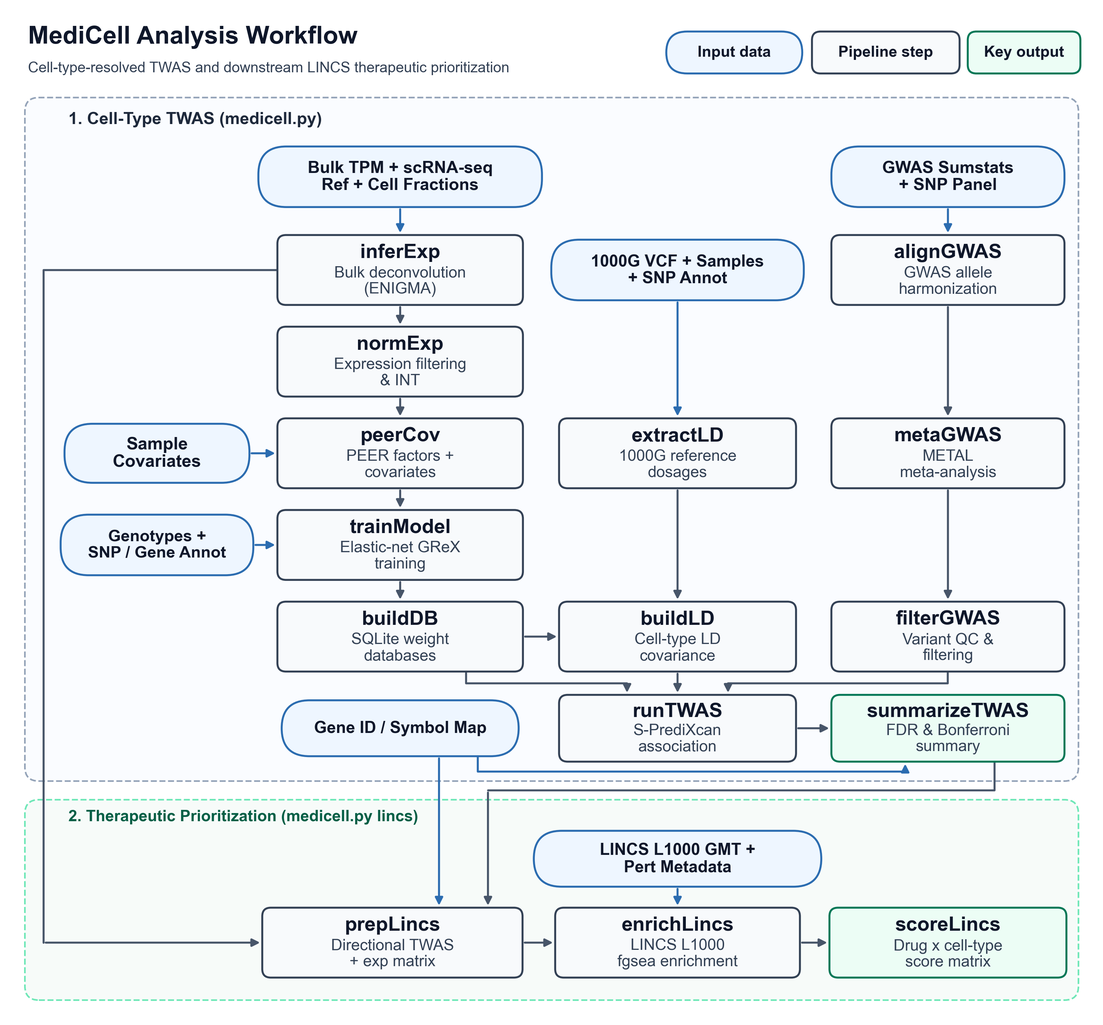
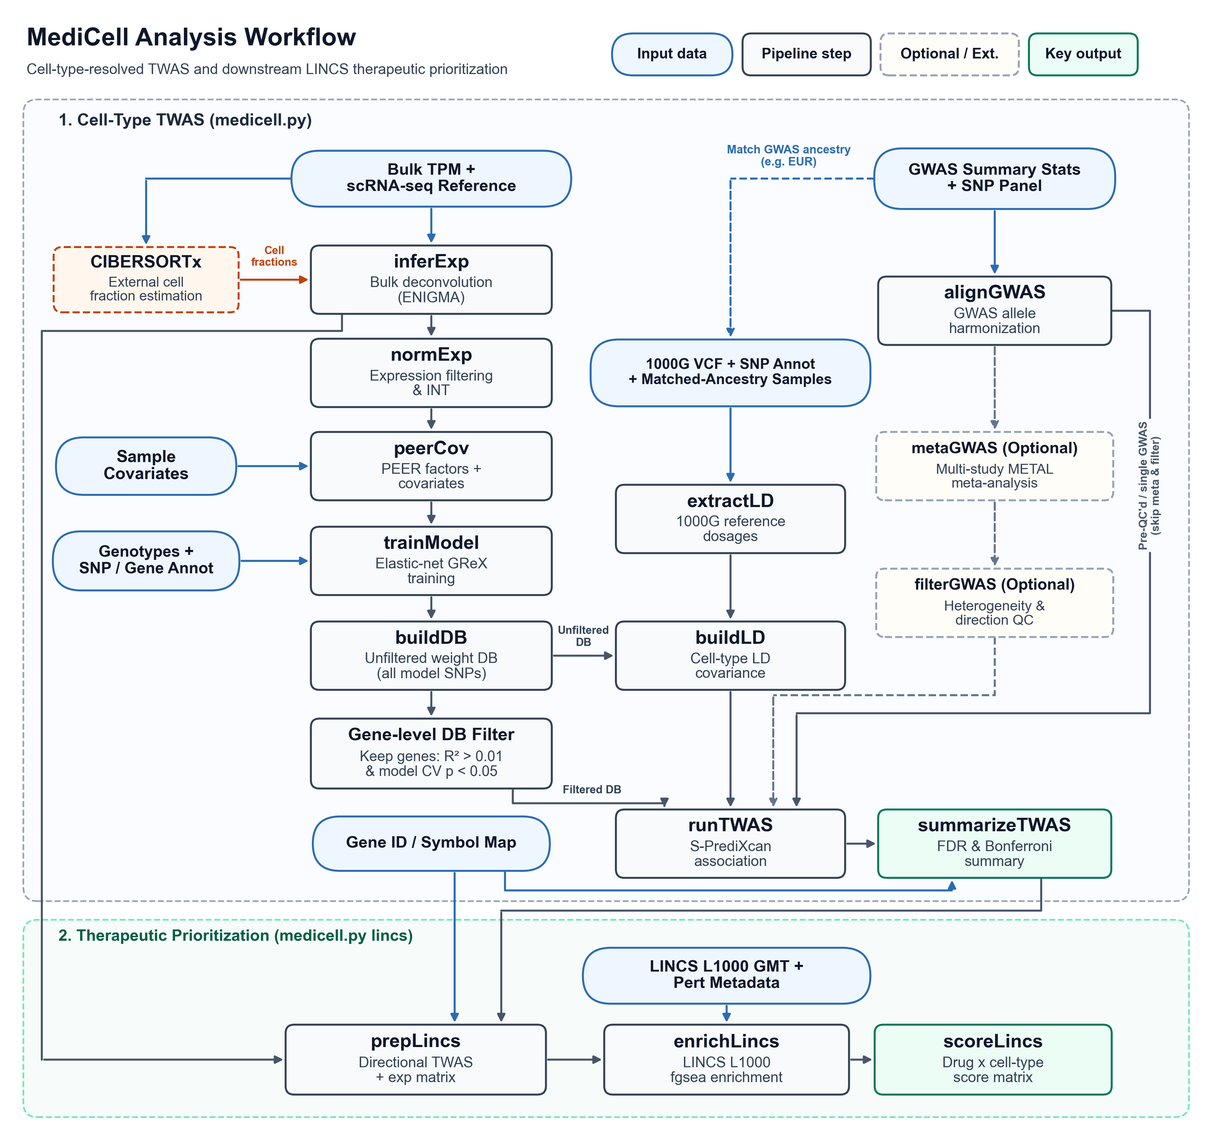
Support optional GWAS meta/filter, ancestry-matched LD, always-filtered DB, and CIBERSORTx flow

diff --git a/medicell.py b/medicell.py
@@ -186,7 +186,7 @@ def parse_args(argv=None):
     data.add_argument("--enigma-ref", default="",
                       help="single-cell reference matrix (TPM, aggregated by cell type)")
     data.add_argument("--cibersortx-frax", default="",
-                      help="CIBERSORTx adjusted cell-fraction output")
+                      help="CIBERSORTx cell-fraction output estimated externally and passed to ENIGMA")
     data.add_argument("--covariates", default="",
                       help="covariates txt (required by peerCov auto-detects "
                            "samples-x-covariates and legacy covariates-x-samples layouts; "
@@ -206,15 +206,14 @@ def parse_args(argv=None):
                       help="1000 Genomes Phase 3 VCF pattern with {chr} placeholder "
                            "(not needed when --ld-dosage-dir is given)")
     data.add_argument("--g1000-samples", default="",
-                      help="1000G sample list file for the LD panel")
+                      help="1000G sample list matching the GWAS ancestry (e.g., 1000G EUR samples for EUR GWAS)")
     data.add_argument("--gene-pos", default="",
                       help="gene position annotation CSV (GRCh37, gene_id/gene_name columns)")
     data.add_argument("--ld-dosage-dir", default="",
                       help="pre-extracted 1000G dosage directory "
                            "(skips the extractLD extraction block)")
     data.add_argument("--gwas-summary", default="",
-                      help="explicit filtered GWAS summary for runTWAS "
-                           "(overrides the pipeline-generated path)")
+                      help="pre-QC'd GWAS summary for runTWAS (MarkerName, Allele1, Allele2, Effect, StdErr, P-value; skips alignGWAS/metaGWAS/filterGWAS with --all)")
 
     gen = p.add_argument_group("input contracts and generalization")
     gen.add_argument("--sample-id-policy", choices=["exact", "legacy-rnames"], default=None,
@@ -233,10 +232,12 @@ def parse_args(argv=None):
                      help="minor allele frequency threshold for trainModel genotype variants in [0, 0.5] (default 0.01)")
     gen.add_argument("--maf-policy", choices=["filter", "verify"], default="filter",
                      help="filter: drop variants with MAF < --maf; verify: fail if input genotype violates --maf (default filter)")
-    gen.add_argument("--ld-panel-id", default="EUR_EAS",
-                     help="LD panel id used in dosage/covariance file names (default EUR_EAS)")
-    gen.add_argument("--twas-model-set", choices=["unfiltered", "filtered-signif"], default=None,
-                     help="weight database choice; required explicitly for buildDB and runTWAS")
+    gen.add_argument("--gwas-population", default=None,
+                     help="GWAS ancestry label (e.g. EUR, EAS, EUR_EAS); defaults --ld-panel-id when omitted")
+    gen.add_argument("--ld-panel-id", default=None,
+                     help="LD panel id matched to GWAS ancestry (defaults to --gwas-population, else EUR_EAS)")
+    gen.add_argument("--twas-model-set", choices=["unfiltered", "filtered-signif"], default="filtered-signif",
+                     help="weight database for runTWAS (default filtered-signif: R2 > 0.01 and CV p < 0.05; buildDB always keeps *_models_unfiltered.db for buildLD)")
     gen.add_argument("--cores", type=int, default=None,
                      help="unified parallel cores/workers across all pipeline steps (default 4)")
     gen.add_argument("--seed", type=int, default=None,
@@ -245,7 +246,7 @@ def parse_args(argv=None):
     gen.add_argument("--training-cores", type=int, default=None,
                      help="inner trainModel cores per (cell_type, chr) job (defaults from --cores; forced to 1 with --seed)")
 
-    gwas = p.add_argument_group("GWAS mode (required for alignGWAS/metaGWAS/filterGWAS)")
+    gwas = p.add_argument_group("GWAS mode (required when running alignGWAS/metaGWAS/filterGWAS)")
     gwas_mode = gwas.add_mutually_exclusive_group()
     gwas_mode.add_argument("--gwas-profile", choices=list(LEGACY_GWAS_PROFILES), default=None,
                            help="historical SLE reproduction profile; reproduces the "
@@ -257,6 +258,8 @@ def parse_args(argv=None):
     gwas.add_argument("--gwas-filter-policy", choices=["none", "legacy"], default=None,
                       help="post-meta filtering (default: legacy for --gwas-profile, "
                            "none for --gwas-manifest)")
+    gwas.add_argument("--skip-gwas-meta", action="store_true",
+                      help="skip optional metaGWAS and filterGWAS when running alignGWAS on a single pre-QC'd GWAS study in --gwas-manifest")
 
     env = p.add_argument_group("environment and tools")
     env.add_argument("--env-base", default="",
@@ -288,7 +291,12 @@ def parse_args(argv=None):
     if flagged_steps:
         args.steps = flagged_steps
     elif args.steps is None:
-        args.steps = ALL_STEPS.copy()
+        if args.gwas_summary:
+            args.steps = [step for step in ALL_STEPS if step not in GWAS_STEPS]
+        elif args.skip_gwas_meta:
+            args.steps = [step for step in ALL_STEPS if step not in ("metaGWAS", "filterGWAS")]
+        else:
+            args.steps = ALL_STEPS.copy()
     else:
         selected = []
         for value in args.steps:
@@ -347,6 +355,7 @@ def parse_args(argv=None):
             chrs.append(int(token))
     args.chromosomes = chrs
     for name, value in (("--gwas-id", args.gwas_id),
+                        ("--gwas-population", args.gwas_population),
                         ("--ld-panel-id", args.ld_panel_id)):
         if value is not None and not re.fullmatch(SAFE_NAME, value):
             p.error(name + " must be a safe output label ([A-Za-z0-9_.-])")
@@ -391,10 +400,28 @@ def parse_args(argv=None):
     if missing:
         p.error("selected steps require: " + ", ".join(missing))
 
-    # -- GWAS mode: explicit profile / manifest, or a recorded prior mode --
-    if args.gwas_summary and set(args.steps) & GWAS_STEPS:
-        p.error("--gwas-summary is for running runTWAS on an external summary; it "
-                "cannot be combined with the GWAS steps")
+    # -- GWAS mode: external summary, single-study aligned, multi-study meta, or recorded prior mode --
+    if args.gwas_summary:
+        if args.gwas_profile or args.gwas_manifest:
+            p.error("--gwas-summary cannot be combined with --gwas-profile or --gwas-manifest")
+        if args.skip_gwas_meta:
+            p.error("--skip-gwas-meta cannot be combined with --gwas-summary")
+        if set(args.steps) & GWAS_STEPS:
+            p.error("--gwas-summary cannot be combined with alignGWAS, metaGWAS, or filterGWAS")
+        if not os.path.isfile(args.gwas_summary) or os.path.getsize(args.gwas_summary) == 0:
+            p.error("--gwas-summary file not found or empty: " + args.gwas_summary)
+        import gzip as _gzip
+        opener = _gzip.open if args.gwas_summary.endswith(".gz") else open
+        with opener(args.gwas_summary, "rt") as _gf:
+            _hdr = _gf.readline().rstrip("\r\n").split()
+        _req_cols = {"MarkerName", "Allele1", "Allele2", "Effect", "StdErr", "P-value"}
+        if not (_req_cols <= set(_hdr)):
+            p.error("--gwas-summary header must contain columns: " + ", ".join(sorted(_req_cols)))
+    if args.skip_gwas_meta:
+        if args.gwas_profile:
+            p.error("--skip-gwas-meta applies only to single-study --gwas-manifest (not --gwas-profile)")
+        if set(args.steps) & {"metaGWAS", "filterGWAS"}:
+            p.error("--skip-gwas-meta cannot be combined with metaGWAS or filterGWAS")
     gwas_dir = os.path.join(os.path.abspath(args.output_dir), "M04_gwas")
     run_meta = os.path.join(gwas_dir, "gwas_run.json")
     profile, manifest = args.gwas_profile, args.gwas_manifest
@@ -435,6 +462,14 @@ def parse_args(argv=None):
                         p.error("Explicit GWAS manifest no longer exists")
                 saved_build = saved.get("genome_build", "GRCh37")
                 saved_policy = saved.get("filter_policy")
+                saved_pop = saved.get("gwas_population") or ""
+                if args.gwas_population is not None and saved_pop and args.gwas_population != saved_pop:
+                    p.error("--gwas-population conflicts with recorded GWAS inputs; use a new output directory")
+                if args.gwas_population is None and saved_pop:
+                    args.gwas_population = saved_pop
+                saved_skip = bool(saved.get("skip_meta", False))
+                if args.skip_gwas_meta and not saved_skip:
+                    p.error("--skip-gwas-meta conflicts with recorded meta-analysis mode; use a new output directory")
                 if (saved_build not in ("GRCh37", "GRCh38")
                         or saved_policy not in ("none", "legacy")
                         or (profile and saved_policy != "legacy")):
@@ -471,10 +506,21 @@ def parse_args(argv=None):
         args.gwas_prefix = LEGACY_GWAS_PREFIX
         filter_policy = "legacy"
     elif manifest:
-        args.gwas_prefix = args.gwas_id + "_meta"
+        is_single = args.skip_gwas_meta or (
+            saved is not None and bool(saved.get("skip_meta", False))
+        ) or ("alignGWAS" in args.steps and "metaGWAS" not in args.steps and "filterGWAS" not in args.steps)
+        if is_single and (not args.gwas_mode_recovered or os.path.isfile(manifest)):
+            import csv as _csv
+            with open(manifest, "r", newline="") as _mf:
+                _rows = list(_csv.DictReader(_mf, delimiter="\t"))
+            if len(_rows) != 1:
+                p.error("skipping metaGWAS/filterGWAS requires a single-study --gwas-manifest (found %d studies)" % len(_rows))
+        args.gwas_prefix = args.gwas_id + ("_single" if is_single else "_meta")
+        args.skip_meta_active = is_single
         filter_policy = "none"
     else:
         args.gwas_prefix = ""
+        args.skip_meta_active = False
         filter_policy = ""
     if args.gwas_filter_policy is not None:
         if profile and args.gwas_filter_policy != "legacy":
@@ -488,6 +534,7 @@ def parse_args(argv=None):
     args.gwas_filt = (os.path.abspath(args.gwas_summary) if args.gwas_summary
                       else (os.path.join(gwas_dir, args.gwas_prefix + "_filt.tsv")
                             if args.gwas_prefix else ""))
+    args.ld_panel_id = args.ld_panel_id or args.gwas_population or "EUR_EAS"
     args.gwas_profile_active = profile
     args.gwas_manifest_active = manifest
     return args
@@ -954,6 +1001,8 @@ def main():
             "metal_tbl": args.metal_tbl,
             "filtered": args.gwas_filt,
             "filter_policy": args.gwas_filter_policy,
+            "gwas_population": args.gwas_population or "",
+            "skip_meta": bool(getattr(args, "skip_meta_active", False)),
         })
 
     enigma_rdata = os.path.join(dirs["m01"],
@@ -990,6 +1039,8 @@ def main():
         "MC_GWAS_FILTER_POLICY": args.gwas_filter_policy,
         "MC_METAL_TBL": args.metal_tbl,
         "MC_GWAS_FILT": args.gwas_filt,
+        "MC_GWAS_SINGLE_OUT": (args.gwas_filt if getattr(args, "skip_meta_active", False) else ""),
+        "MC_GWAS_POPULATION": args.gwas_population or "",
         "MC_G1000_VCF_PATTERN": input_path(args.g1000_vcf_pattern),
         "MC_G1000_SAMPLES": input_path(args.g1000_samples),
         "MC_GENE_POS": input_path(args.gene_pos),

diff --git a/test/check_results.py b/test/check_results.py
@@ -46,6 +46,9 @@ for ct in cell_types:
         assert c.execute("SELECT n_samples,population FROM sample_info").fetchall() == [(n_samples, "EUR")]
         assert c.execute("SELECT count(*) FROM extra").fetchone()[0] >= 1
         assert c.execute("SELECT count(*) FROM weights").fetchone()[0] >= 1
+    with sqlite3.connect(str(out / f"M06_databases/{ct}_models_filtered_signif.db")) as cf:
+        assert cf.execute("SELECT n_samples,population FROM sample_info").fetchall() == [(n_samples, "EUR")]
+        assert cf.execute("SELECT count(*) FROM extra WHERE \"pred.perf.R2\" <= 0.01 OR \"pred.perf.pval\" >= 0.05").fetchone()[0] == 0
     with gzip.open(str(out / f"M05_ld/cov_MINI_EUR_EAS/{ct}.txt.gz"), "rt") as f:
         header = f.readline().split()
         covariance = [dict(zip(header, line.split())) for line in f]

diff --git a/README.md b/README.md
@@ -57,7 +57,7 @@ python3 medicell.py --output-dir run_out --all \
     --cores 4 \
     --cell-types B,CD4T,CD8T,NK,Mono,DC \
     --peer-nk 2 --peer-keep 2 \
-    --training-population EUR --twas-model-set unfiltered \
+    --training-population EUR --gwas-population EUR_EAS \
     --bulk-tpm           data/bulk_TPM.txt \
     --enigma-ref         data/sc_reference_TPM.matrx \
     --cibersortx-frax    data/CIBERSORTx_fractions.txt \
@@ -113,8 +113,8 @@ remain valid aliases in `--steps`):
 | `trainModel` | `M03` | `M03_ModelTraining.R` | `--snp-annot-pattern`, `--genotype-pattern`, `--gene-annot` |
 | `buildDB` | `M04db`, `M06` | `M04_Makedb.R` | (uses `trainModel` output) |
 | `alignGWAS` | `M05align`, `M04align` | `M05_DataProcess_GWAS_align4METAL.R` | `--snp-annot-file`, `--gwas-dir` + GWAS mode |
-| `metaGWAS` | `M05metal`, `M04metal` | `M05_DataProcess_GWAS_metal.sh` | (uses `alignGWAS` output) |
-| `filterGWAS` | `M05filter`, `M04filter` | `M05_DataProcess_GWAS_metal_filter.R` | (uses `metaGWAS` output) |
+| `metaGWAS` *(optional)* | `M05metal`, `M04metal` | `M05_DataProcess_GWAS_metal.sh` | (multi-study meta; skipped with `--skip-gwas-meta` or `--gwas-summary`) |
+| `filterGWAS` *(optional)* | `M05filter`, `M04filter` | `M05_DataProcess_GWAS_metal_filter.R` | (post-meta QC; skipped with `--skip-gwas-meta` or `--gwas-summary`) |
 | `extractLD` | `M06ld`, `M05ld` | `M06_LD.sh` | `--snp-annot-pattern`; also `--g1000-vcf-pattern`, `--g1000-samples` unless `--ld-dosage-dir` |
 | `buildLD` | `M06cov`, `M05cov` | `M06_Makeld.sh` | (uses `buildDB` + `extractLD` output) |
 | `runTWAS` | `M07` | `M07_TWAS.sh` | (uses `buildDB` + `buildLD` + `filterGWAS` / `--gwas-summary`) |
@@ -151,18 +151,27 @@ Existing tool and environment options still apply.
   prints a warning when the legacy profile is active; standard runs get the
   `<gwas_id>_meta` output prefix and filter policy `none` by default.
 
+`metaGWAS` and `filterGWAS` are **optional** and only needed for multi-study
+meta-analysis (such as the multi-cohort SLE example). A pre-QC'd single-study
+GWAS can run either:
+
+- directly with `--all --gwas-summary FILE --gwas-id TRAIT` (automatically skips
+  `alignGWAS`, `metaGWAS`, and `filterGWAS`; `FILE` must include columns
+  `MarkerName`, `Allele1`, `Allele2`, `Effect`, `StdErr`, `P-value`), or
+- with `--all --gwas-manifest SINGLE_STUDY.tsv --skip-gwas-meta --gwas-id TRAIT`
+  (runs `alignGWAS` to harmonize alleles against `--snp-annot-file` and skips
+  `metaGWAS` / `filterGWAS`).
+
 The active mode is recorded in `M04_gwas/gwas_run.json`, so re-running
-`metaGWAS`/`filterGWAS`/`runTWAS` in the same output directory recovers it. `runTWAS` can also
-run on any external summary with `--gwas-summary FILE` (cannot be combined
-with the GWAS steps). `--gwas-id` is a label used in standard-mode output
-names and reports only.
+`metaGWAS`/`filterGWAS`/`runTWAS` in the same output directory recovers it.
+`--gwas-id` is a label used in standard-mode output names and reports only.
 
 ### Explicit analysis configuration
 
 - `--cell-types` is always required and must match the reference cell-type names.
 - `--peer-nk` and `--peer-keep` are required only for `peerCov` (`M02cov`). Use `0`/`0`
   for known covariates only; no PEER factors are inferred in this mode.
-- `--twas-model-set unfiltered|filtered-signif` is required for `buildDB` (`M04db`) and `runTWAS` (`M07`).
+- `--twas-model-set filtered-signif|unfiltered` (default `filtered-signif`) selects the database for `runTWAS` (`M07`). `buildDB` always retains `{ct}_models_unfiltered.db` for `buildLD` SNP lookup and generates `{ct}_models_filtered_signif.db` by filtering whole genes (`R^2 > 0.01` and CV `p < 0.05`, dropping unqualified genes entirely).
 - `--training-population` is optional metadata for `buildDB` (default `unspecified`).
 
 Sample IDs default to exact matching and gene annotations default to the
@@ -196,7 +205,7 @@ according to the selected steps above; tuning options retain their defaults:
 | `--output-dir` | run directory; all results are written here |
 | `--bulk-tpm` | bulk TPM expression matrix (genes x samples) |
 | `--enigma-ref` | single-cell reference matrix (TPM, aggregated by cell type) |
-| `--cibersortx-frax` | CIBERSORTx adjusted cell-fraction output |
+| `--cibersortx-frax` | externally estimated CIBERSORTx cell-type fractions passed into `inferExp` (ENIGMA) instead of internal fraction estimation |
 | `--covariates` | covariates txt, first column = sample ID, then covariate columns (required for `peerCov`; format below) |
 | `--cat-covs` | comma-separated categorical covariate columns to dummy-encode (default none) |
 | `--min-level-count` | drop categorical levels with fewer samples (default 5) |
@@ -208,7 +217,7 @@ according to the selected steps above; tuning options retain their defaults:
 | `--snp-annot-file` | single-file genotype panel SNP annotation (for GWAS align) |
 | `--gwas-dir` | directory with the three SLE GWAS files: `GCST011096_buildGRCh37.tsv`, `GCST90018917_buildGRCh37.tsv.gz`, `GCST90476183_hg19.tsv.gz` (legacy profiles) |
 | `--g1000-vcf-pattern` | 1000 Genomes Phase 3 VCF pattern, with `{chr}` placeholder |
-| `--g1000-samples` | 1000G sample list for the LD panel (EUR+EAS by default; pass an EUR-only list for a European LD panel) |
+| `--g1000-samples` | 1000G sample list **matching the GWAS ancestry** (e.g., use 1000G EUR samples for a EUR GWAS, or matched EUR+EAS samples for trans-ancestry EUR+EAS meta-GWAS) |
 | `--gene-pos` | gene position annotation CSV (GRCh37, with gene_id/gene_name columns) |
 
 Input contracts:
@@ -220,8 +229,9 @@ Input contracts:
 | `--gene-annot-format` | `standard` (default) or explicitly selected `legacy-name-is-id` |
 | `--genome-build` | `GRCh37` (default) or `GRCh38`; declared for this cohort's coordinates, no liftover is performed |
 | `--training-population` | optional population label stored with the trained models (default `unspecified`) |
-| `--ld-panel-id` | LD panel id used in dosage/covariance file names (default `EUR_EAS`) |
-| `--twas-model-set` | `unfiltered` or `filtered-signif`; required for `buildDB`/`runTWAS` |
+| `--gwas-population` | GWAS ancestry label (e.g. `EUR`, `EAS`, `EUR_EAS`); sets default `--ld-panel-id` when omitted |
+| `--ld-panel-id` | LD panel id matched to GWAS ancestry (defaults to `--gwas-population` if set, else `EUR_EAS`) |
+| `--twas-model-set` | `filtered-signif` (default; gene-level filter `R^2 > 0.01` & CV `p < 0.05`) or `unfiltered` for `runTWAS`; `buildDB` always retains `unfiltered` DB for `buildLD` |
 | `--maf` | MAF threshold for `trainModel` genotypes in `[0, 0.5]` (default `0.01`; manuscript used `0.05`) |
 | `--maf-policy` | `filter` (drop variants `< --maf`) or `verify` (fail if input genotype violates `--maf`) |
 
@@ -272,7 +282,8 @@ Run control:
 | `--training-cores` | inner `trainModel` cores per `(cell_type, chr)` job (defaults from `--cores`) |
 | `--ld-dosage-dir` | reuse pre-extracted 1000G dosages, skip `extractLD` (`M06ld`) extraction |
 | `--gwas-id` | trait label (required for `--gwas-manifest` and standalone `summarizeTWAS` without `gwas_run.json`; auto-recovered from `gwas_run.json` when present) |
-| `--gwas-summary` | explicit filtered GWAS summary for `runTWAS` (`M07`) |
+| `--gwas-summary` | pre-QC'd GWAS summary for `runTWAS` (`M07`); automatically skips `alignGWAS`/`metaGWAS`/`filterGWAS` when used with `--all` |
+| `--skip-gwas-meta` | skip optional `metaGWAS`/`filterGWAS` for a single pre-QC'd study in `--gwas-manifest` |
 
 Environment/tools (defaults match `envs/*.yml` and bundled `tools/`):
 
@@ -291,15 +302,15 @@ Executed in dependency order (canonical names; legacy aliases in parentheses):
 
 | Step | What it does |
 |---|---|
-| `inferExp` (`M01`) | ENIGMA trace-norm deconvolution with CIBERSORTx fractions |
+| `inferExp` (`M01`) | ENIGMA trace-norm deconvolution using externally estimated CIBERSORTx cell fractions |
 | `normExp` (`M02exp`) | filter low-expression genes (TPM > `--tpm-min` in `max(--min-pct x N, --min-samples)` samples), per-gene inverse-normal transform per cell type |
 | `peerCov` (`M02cov`) | PEER factors + covariates for model training (parallelized across cell types) |
 | `trainModel` (`M03`) | nested-CV elastic-net GReX models (parallelized across cell types x chromosomes and genes) |
-| `buildDB` (`M04db`, `M06`) | SQLite weight databases for S-PrediXcan (parallelized across cell types) |
-| `alignGWAS` (`M05align`, `M04align`) | align GWAS studies to the genotype panel (allele flips, effect direction) |
-| `metaGWAS` (`M05metal`, `M04metal`) | METAL inverse-variance meta-analysis |
-| `filterGWAS` (`M05filter`, `M04filter`) | post-meta filtering (policy-dependent) |
-| `extractLD` (`M06ld`, `M05ld`) | 1000G dosages aligned to the panel annotation (parallelized across chromosomes) |
+| `buildDB` (`M04db`, `M06`) | build `{ct}_models_unfiltered.db` (kept for `buildLD` SNP lookup) and gene-filtered `{ct}_models_filtered_signif.db` (`R^2 > 0.01`, CV `p < 0.05`; whole failed genes removed) |
+| `alignGWAS` (`M05align`, `M04align`) | align GWAS study/studies to the genotype panel (and write direct TWAS input when meta is skipped) |
+| `metaGWAS` (`M05metal`, `M04metal`) | *(optional)* METAL inverse-variance meta-analysis for multi-study GWAS |
+| `filterGWAS` (`M05filter`, `M04filter`) | *(optional)* post-meta heterogeneity/direction filtering (policy-dependent) |
+| `extractLD` (`M06ld`, `M05ld`) | 1000G dosages for GWAS-ancestry-matched samples aligned to the panel annotation (parallelized across chromosomes) |
 | `buildLD` (`M06cov`, `M05cov`) | LD covariance matrices per cell type (parallelized across cell types) |
 | `runTWAS` (`M07`) | S-PrediXcan association per cell type (parallelized across cell types) |
 | `summarizeTWAS` (`M08`) | per-cell-type FDR / Bonferroni result summary |
@@ -328,7 +339,7 @@ remain `zscore_pval < 0.05` and `rho_avg_squared > 0.01`. No intermediate
                         Model_training_{ct}_chr{n}_summary.txt
   M03_models/weights/   Model_training_{ct}_chr{n}_weights.txt
   M06_databases/        {ct}_models_unfiltered.db               all models; required for LD covariance and unfiltered TWAS
-                        {ct}_models_filtered_signif.db          only when --twas-model-set filtered-signif is selected
+                        {ct}_models_filtered_signif.db          gene-filtered models (R^2 > 0.01, CV p < 0.05; default for runTWAS)
   M04_gwas/             gwas_run.json                           recorded GWAS mode (profile or manifest)
                         SLE_metal_096_917_1831.tbl              legacy METAL meta-analysis result
                         SLE_metal_096_917_183_filt.tsv          legacy filtered meta statistics

diff --git a/script/README.md b/script/README.md
@@ -25,10 +25,10 @@ positional `<step>`).
 | `normExp` | `M02exp` | `M02_DataProcess_exp_fordb.R` | `r3.6.3` | `mclapply` across cell types | Filter genes (`TPM > MC_TPM_MIN` in `>= max(ceil(MC_MIN_PCT * N), MC_MIN_SAMPLES)` samples) and apply per-gene rank-based inverse normal transformation (INT). |
 | `peerCov` | `M02cov` | `M02_DataProcess_covariance_for_db.R` | `r3.6.3` | `mclapply` across cell types | Auto-detect covariate layout, dummy-encode `MC_CAT_COVS`, estimate `MC_PEER_NK` PEER hidden factors per cell type, and retain `MC_PEER_KEEP` factors for training. |
 | `trainModel` | `M03` | `M03_ModelTraining.R` | `R4.4.3` | Outer `(ct x chr)` pool + inner `doParallel` | Train nested-CV elastic-net GReX models (`alpha = 0.5`, `+/- 1 Mb` cis window) for one `(cell_type, chr)` pair via `helpers/gtex_v7_nested_cv_elnet.R`. |
-| `buildDB` | `M04db`, `M06` | `M04_Makedb.R` | `R4.4.3` | `mclapply` across cell types | Validate 24-column model summaries and canonical `VarID` weights, then assemble PrediXcan SQLite databases (`unfiltered` and optional `filtered-signif`). |
+| `buildDB` | `M04db`, `M06` | `M04_Makedb.R` | `R4.4.3` | `mclapply` across cell types | Validate 24-column model summaries and canonical `VarID` weights, then assemble `{ct}_models_unfiltered.db` (retained for `buildLD`) and gene-filtered `{ct}_models_filtered_signif.db` (`rho_avg_squared > 0.01`, `zscore_pval < 0.05`). |
 | `alignGWAS` | `M05align`, `M04align` | `M05_DataProcess_GWAS_align4METAL.R` | `R4.4.3` | Single-process | Dispatch GWAS alignment to `helpers/gwas_normalize.R` (standard manifest mode) or `helpers/legacy_sle_align.R` (explicit historical SLE profiles). |
-| `metaGWAS` | `M05metal`, `M04metal` | `M05_DataProcess_GWAS_metal.sh` | `R4.4.3` | Single-process | Dispatch METAL inverse-variance meta-analysis via `helpers/gwas_control.py meta`. |
-| `filterGWAS` | `M05filter`, `M04filter` | `M05_DataProcess_GWAS_metal_filter.R` | `R4.4.3` | `data.table` | Normalize METAL alleles and optionally apply legacy heterogeneity/direction filtering (`MC_GWAS_FILTER_POLICY=legacy` vs `none`). |
+| `metaGWAS` *(opt.)* | `M05metal`, `M04metal` | `M05_DataProcess_GWAS_metal.sh` | `R4.4.3` | Single-process | Dispatch METAL inverse-variance meta-analysis via `helpers/gwas_control.py meta`. |
+| `filterGWAS` *(opt.)* | `M05filter`, `M04filter` | `M05_DataProcess_GWAS_metal_filter.R` | `R4.4.3` | `data.table` | Normalize METAL alleles and optionally apply legacy heterogeneity/direction filtering (`MC_GWAS_FILTER_POLICY=legacy` vs `none`). |
 | `extractLD` | `M06ld`, `M05ld` | `M06_LD.sh` | `imlatools` | `parallel_run.py` across chromosomes | Extract biallelic SNPs from 1000G VCFs with pre-subset AF (`bcftools +fill-tags`) and align dosages to per-chromosome SNP annotations. |
 | `buildLD` | `M06cov`, `M05cov` | `M06_Makeld.sh` | `imlatools` | `parallel_run.py` across cell types | Run MetaXcan `M01_covariances_correlations.py` per cell type on isolated chromosome dosages and validate outputs. |
 | `runTWAS` | `M07` | `M07_TWAS.sh` | `imlatools` | `parallel_run.py` across cell types | Run `SPrediXcan.py` per cell type against the selected weight DB (`unfiltered` or `filtered-signif`) and validate TWAS output schemas. |
